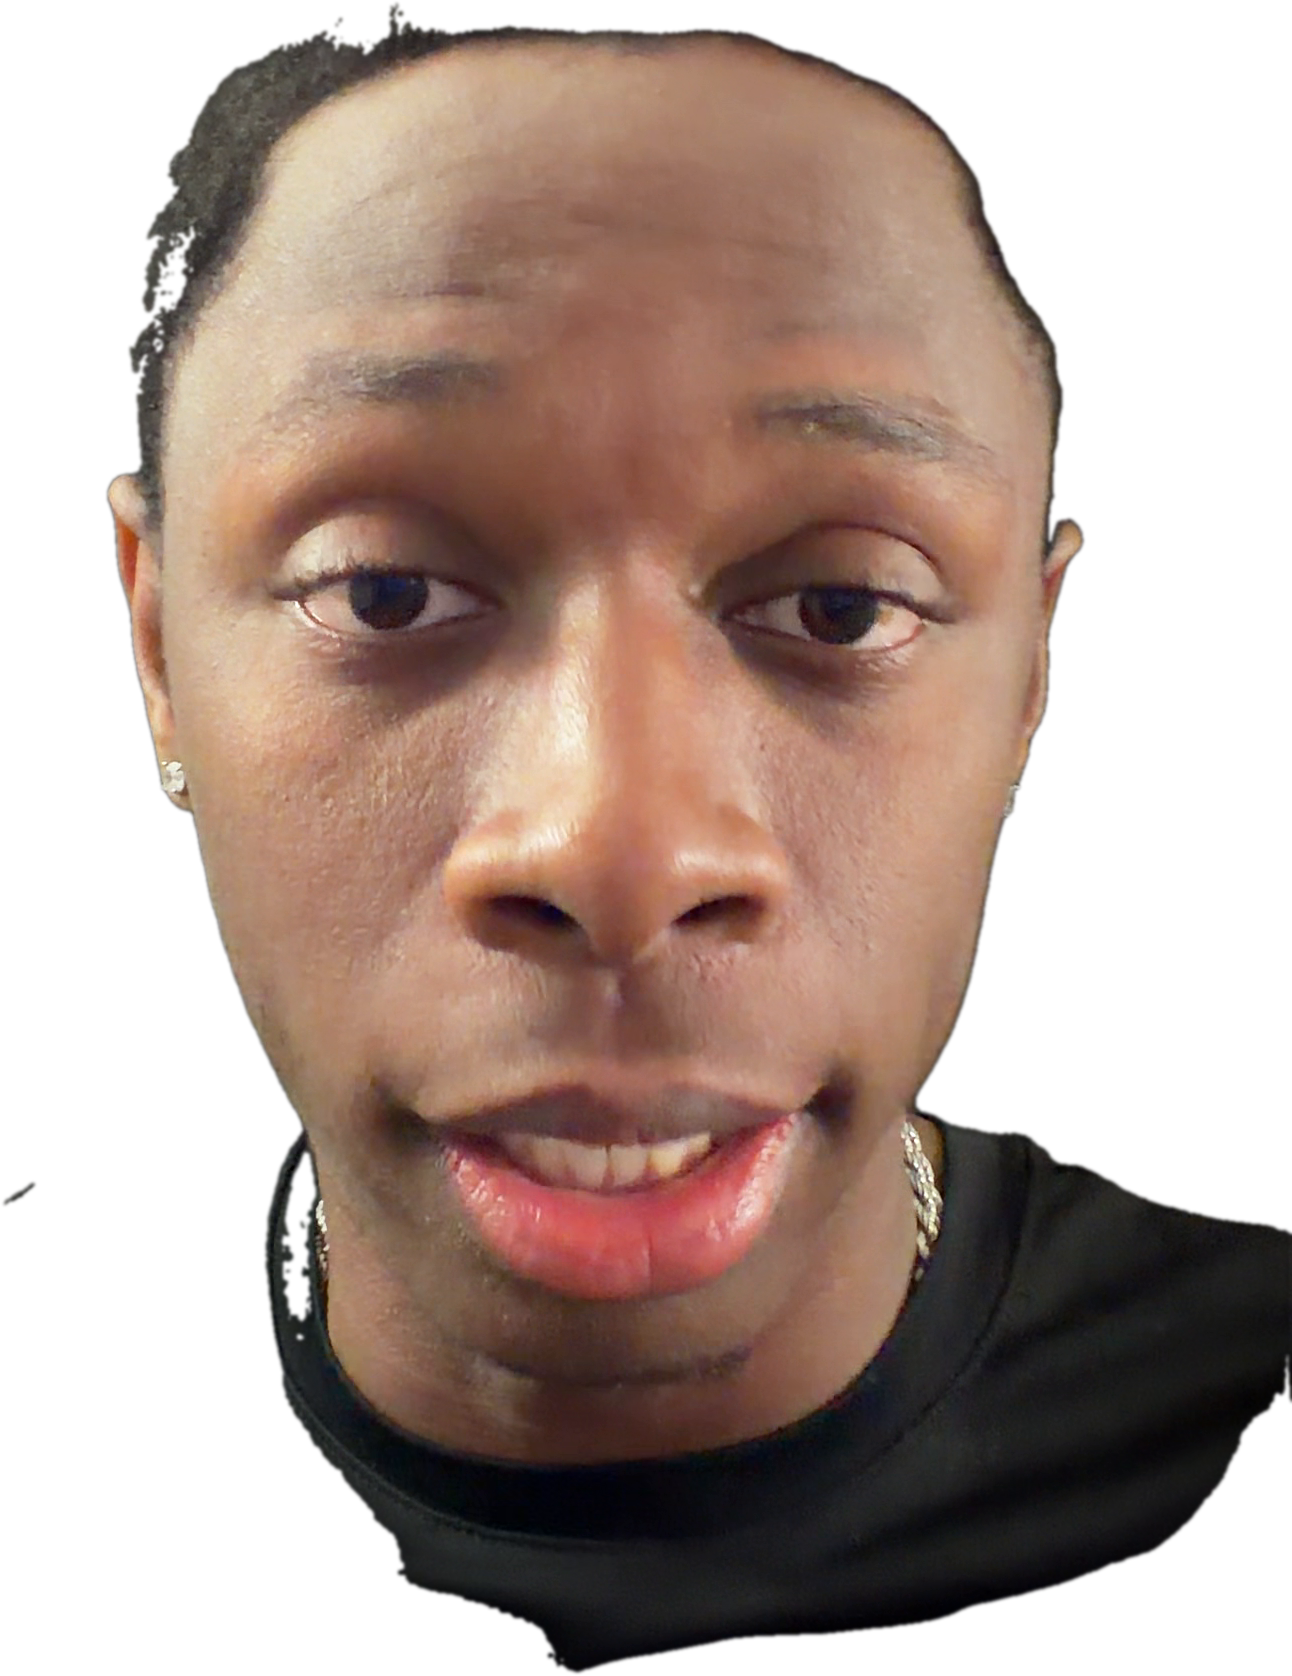
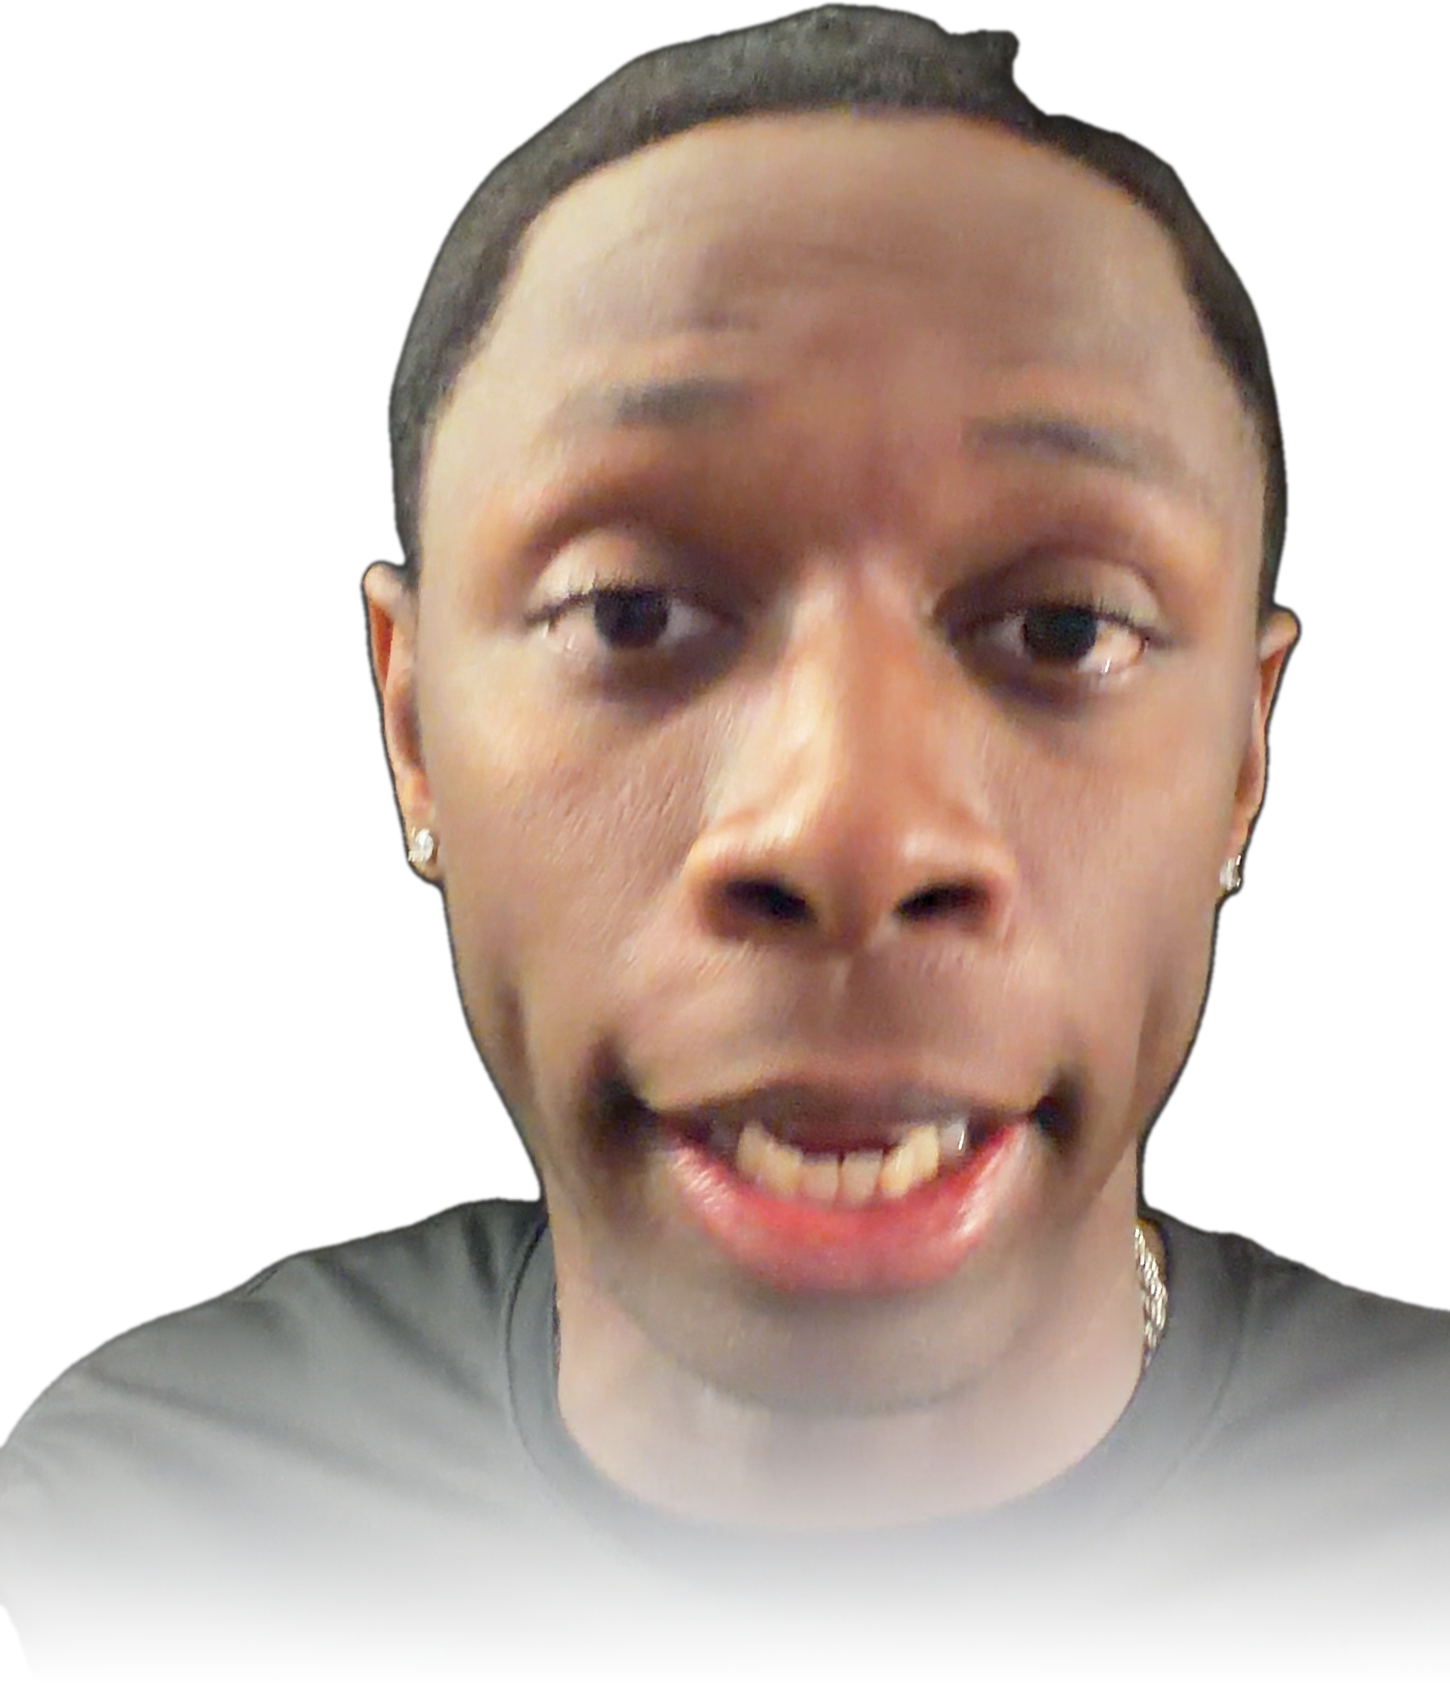
cut-events: redesigned high-quality cover (0 AMERICANS?! / 8.30)
Claude-Session: https://claude.ai/code/session_01FEcSZvosEAPmzXWCsMnGoE

diff --git a/projects/cut-events/NOTES.md b/projects/cut-events/NOTES.md
@@ -56,7 +56,7 @@
 
 ## Delivered
 - `exports/cut_events_tiktok_hq.mp4` (CRF 16, −14.1 LUFS).
-- Covers: `exports/thumbnails/cut_events_thumb.jpg` (3:4), `cut_events_thumb_916.jpg` (9:16).
+- Covers (v2, 17 Nov): "0 AMERICANS?!" / "ONLY 12 MADE IT", red "8.30" box (LA28 standard), Tentoglou mid-jump, owner bust, green burst like Jane/Maddox. `exports/thumbnails/cut_events_thumb.jpg` (3:4), `cut_events_thumb_916.jpg` (9:16).
 - **Dropbox:** `/TikTok Exports/cut_events_tiktok_hq.mp4` plus both covers. content_hash verified.
 - **YouTube Short:** https://www.youtube.com/watch?v=CKUC_pBdAPo
 - **Instagram trial reel** (@e.diamondz, MANUAL): https://www.instagram.com/reel/Df1LN6TnOi4/
